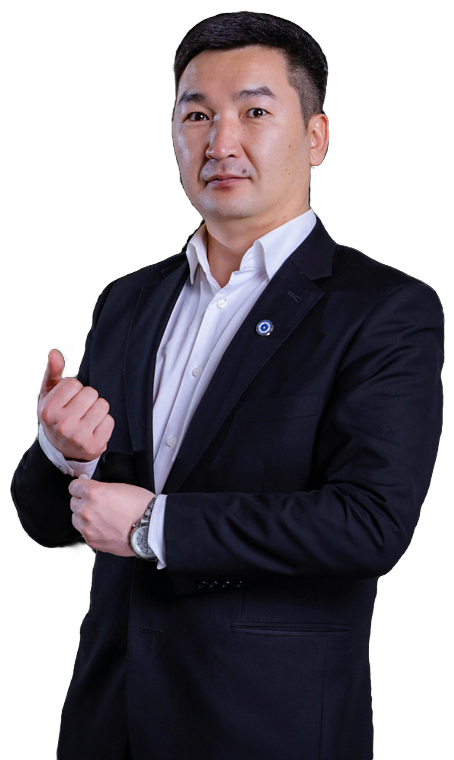
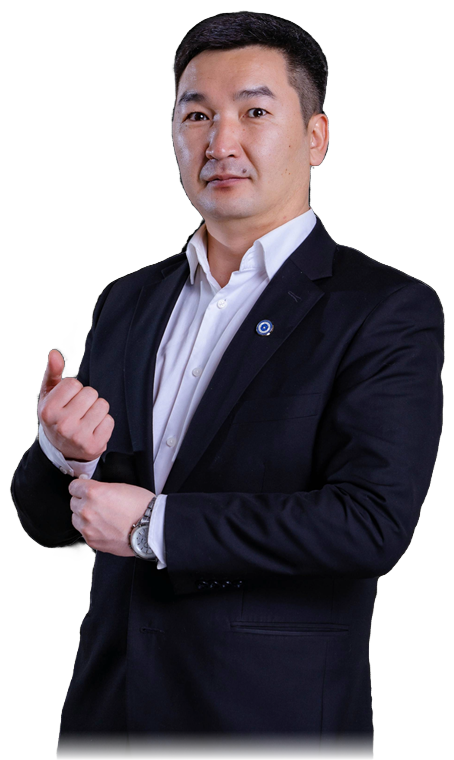
fix: anchor CEO portrait flush to card bottom and add gradient mask

Changed region(s): [[0.1233, 0.9684, 0.8326, 1.0]]

diff --git a/src/components/sections/CeoSection.tsx b/src/components/sections/CeoSection.tsx
@@ -65,7 +65,7 @@ export function CeoSection({
             {/* Top-left corner chamfer decoration */}
             <div className="pointer-events-none absolute left-0 top-0 h-7 w-7 border-b border-r border-white/20 bg-white/10 [clip-path:polygon(0_0,100%_0,0_100%)] opacity-80" />
 
-            <div className="grid items-center gap-8 lg:grid-cols-12 lg:gap-12">
+            <div className="grid items-center lg:items-end gap-8 lg:grid-cols-12 lg:gap-12">
               {/* Left Column: Brand Logo, Quote, Signature & Credentials */}
               <div className="flex flex-col justify-between lg:col-span-7">
                 {/* Brand Logo Header - Always pristine white logo on the dark executive card */}
@@ -129,10 +129,10 @@ export function CeoSection({
                 </FadeIn>
               </div>
 
-              {/* Right Column: High-Resolution CEO Cutout Portrait */}
-              <div className="relative flex flex-col items-center justify-end lg:col-span-5">
+              {/* Right Column: High-Resolution CEO Cutout Portrait anchored flush to bottom */}
+              <div className="relative flex flex-col items-center justify-end lg:col-span-5 lg:self-end lg:-mb-14">
                 <FadeIn direction="up" delay={0.15} className="w-full">
-                  <div className="relative mx-auto h-[380px] w-full max-w-[360px] sm:h-[480px] sm:max-w-[420px] lg:h-[560px] lg:max-w-[480px]">
+                  <div className="relative mx-auto h-[380px] w-full max-w-[360px] sm:h-[480px] sm:max-w-[420px] lg:h-[580px] lg:max-w-[460px] xl:h-[620px] xl:max-w-[490px] [mask-image:linear-gradient(to_bottom,black_82%,transparent_100%)] [-webkit-mask-image:linear-gradient(to_bottom,black_82%,transparent_100%)]">
                     <Image
                       src={imageSrc}
                       alt={ceoName}

diff --git a/src/app/[locale]/ceo/page.tsx b/src/app/[locale]/ceo/page.tsx
@@ -178,7 +178,7 @@ export default async function CeoProfilePage({
           >
             <div className="pointer-events-none absolute left-0 top-0 h-8 w-8 border-b border-r border-white/20 bg-white/10 [clip-path:polygon(0_0,100%_0,0_100%)] opacity-80" />
 
-            <div className="grid items-center gap-8 lg:grid-cols-12 lg:gap-12">
+            <div className="grid items-center lg:items-end gap-8 lg:grid-cols-12 lg:gap-12">
               <div className="flex flex-col justify-between lg:col-span-7">
                 <div className="mb-6 sm:mb-8">
                   <Image
@@ -212,8 +212,8 @@ export default async function CeoProfilePage({
                 </div>
               </div>
 
-              <div className="relative flex flex-col items-center justify-end lg:col-span-5">
-                <div className="relative mx-auto h-[360px] w-full max-w-[340px] sm:h-[440px] sm:max-w-[400px] lg:h-[500px]">
+              <div className="relative flex flex-col items-center justify-end lg:col-span-5 lg:self-end lg:-mb-14">
+                <div className="relative mx-auto h-[360px] w-full max-w-[340px] sm:h-[440px] sm:max-w-[400px] lg:h-[520px] lg:max-w-[440px] xl:h-[560px] xl:max-w-[470px] [mask-image:linear-gradient(to_bottom,black_82%,transparent_100%)] [-webkit-mask-image:linear-gradient(to_bottom,black_82%,transparent_100%)]">
                   <Image
                     src="/images/ceo.png"
                     alt={ceoName}
